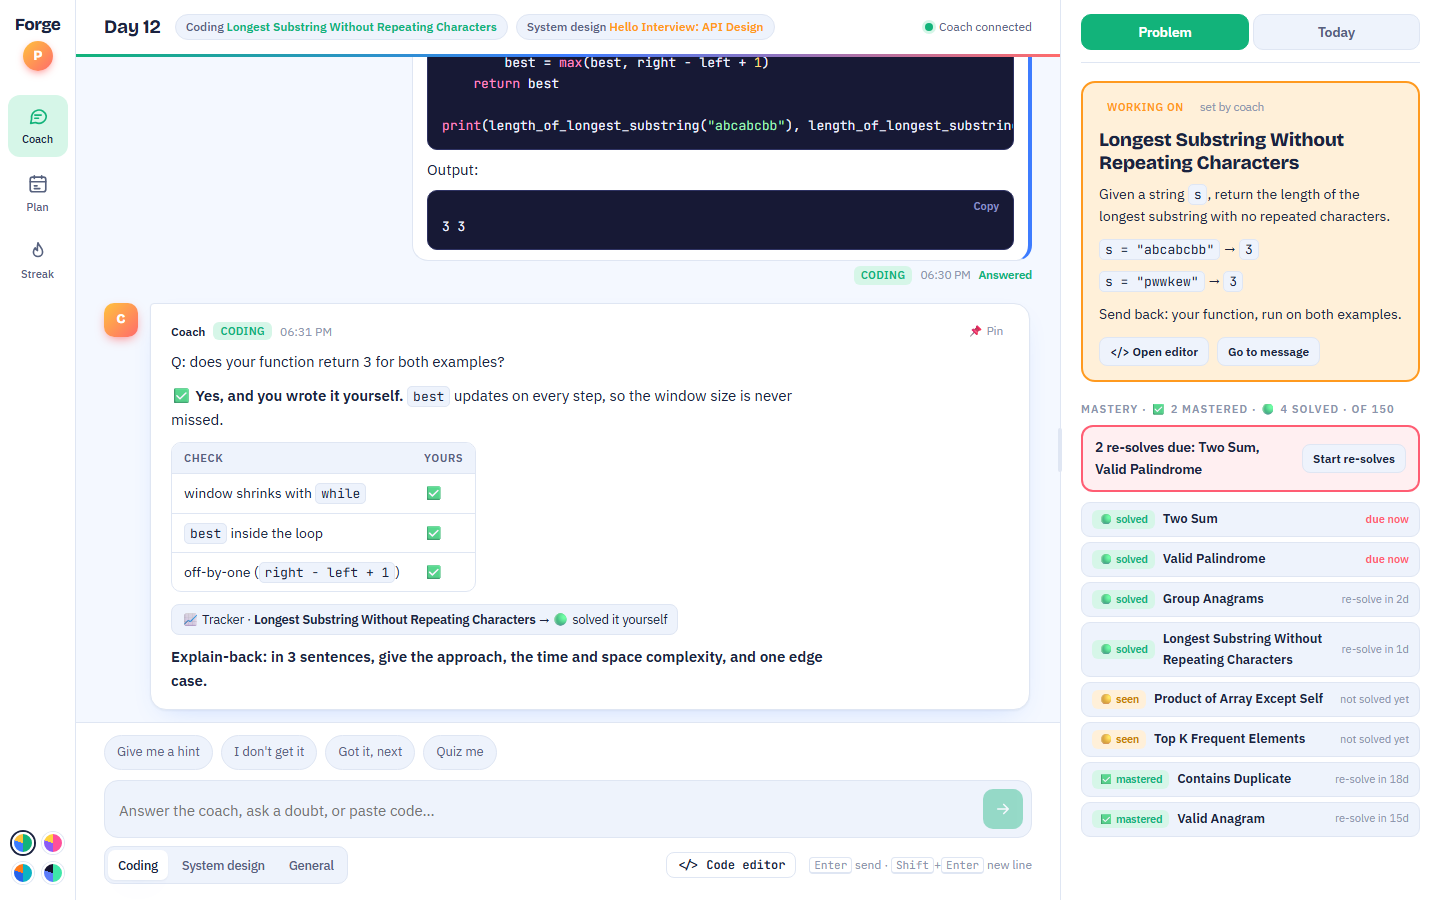
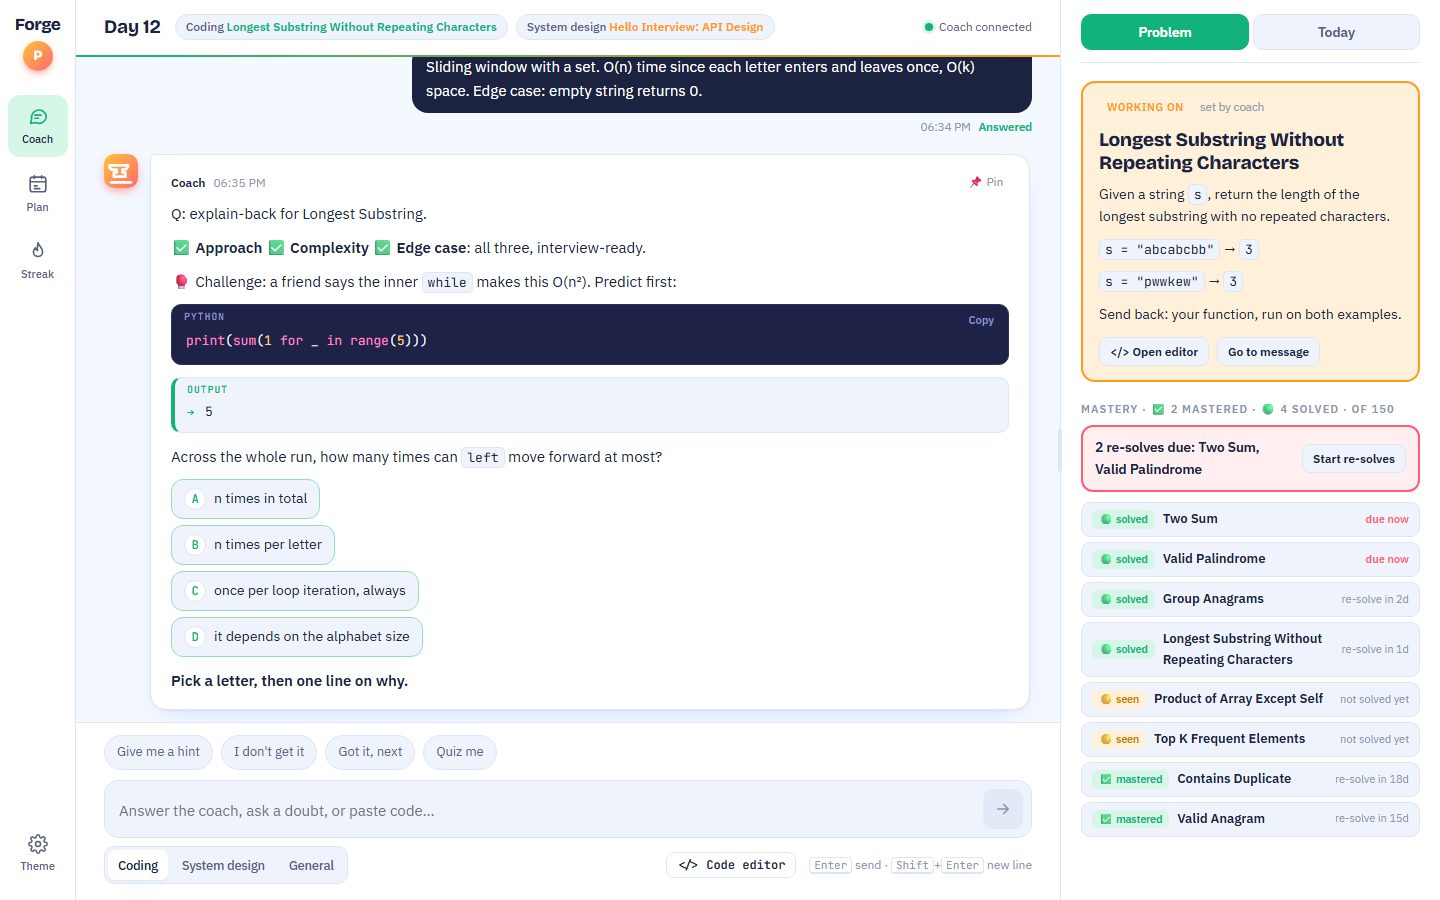
Second design review: tappable options, output box, calmer colours
- Code output is a light Output box with a → prompt, clearly different from the dark code box.
- A–D options are chips. Only the newest question's chips are live, and a tap fills 'B — ' so the learner adds a reason.
- Day types read Busy day / Normal / Free day.
- The palette moves into a Theme popover with labelled swatches; hidden on phones.
- Calmer colours: neutral learner bubble, a quiet two-colour top rule, an anvil coach avatar.
- The track tag appears only when the track changes. Disabled send is clearly off. No truncated placeholder.
- Fixed: the Theme button was treated as a view, which blanked the chat.
- Demo data gains a lettered question, and the README screenshots are refreshed.

diff --git a/index.html b/index.html
@@ -93,7 +93,12 @@ body.resizing{cursor:col-resize;user-select:none}
 .rail button.nav[aria-current="page"] svg{color:var(--accent)}
 .rail .badge{position:absolute;top:4px;right:8px;min-width:18px;height:18px;border-radius:9px;background:var(--pop);color:#fff;font:600 11px/18px var(--mono);text-align:center;padding:0 4px}
 .rail .spacer{flex:1}
-.swatches{display:grid;grid-template-columns:repeat(2,22px);gap:8px}
+.swatches{display:grid;grid-template-columns:repeat(4,28px);gap:10px}
+.swatches button{width:28px!important;height:28px!important}
+.settings-pop{position:fixed;left:84px;bottom:16px;z-index:40;background:var(--panel);border:1px solid var(--line);border-radius:14px;box-shadow:var(--shadow);padding:12px 14px}
+.settings-pop .label{margin:0 0 8px}
+.pal-names{display:grid;grid-template-columns:repeat(4,28px);gap:10px;margin-top:6px;font-size:9.5px;color:var(--muted);text-align:center}
+.settings-btn svg{width:20px!important;height:20px!important}
 .swatches button{appearance:none;width:22px;height:22px;border-radius:50%;cursor:pointer;border:2px solid var(--panel);background:conic-gradient(var(--a) 0 50%,var(--b) 50% 80%,var(--c) 80%);box-shadow:0 0 0 1px var(--line)}
 .swatches button[aria-pressed="true"]{box-shadow:0 0 0 2px var(--ink)}
 #confetti{position:fixed;inset:0;pointer-events:none;z-index:50}
@@ -101,7 +106,7 @@ body.resizing{cursor:col-resize;user-select:none}
 /* center */
 .center{min-width:0;min-height:0;display:flex;flex-direction:column;height:100%;overflow:hidden}
 code,pre,kbd,.mono{font-variant-ligatures:none!important;font-feature-settings:"liga" 0,"calt" 0!important}
-.topbar{flex:none;display:flex;align-items:center;gap:14px;padding:14px 28px 17px;background:linear-gradient(90deg,var(--accent),var(--me) 50%,var(--sun-b)) bottom/100% 3px no-repeat,var(--panel)}
+.topbar{flex:none;display:flex;align-items:center;gap:14px;padding:14px 28px 17px;background:linear-gradient(90deg,var(--accent),var(--ember)) bottom/100% 2px no-repeat,var(--panel)}
 .topbar h1{font:700 19px/1.2 var(--display);margin:0;letter-spacing:-.01em;white-space:nowrap}
 .chips{display:flex;gap:8px;flex-wrap:wrap;min-width:0}
 .chip{font:500 12px/1 var(--body);padding:6px 10px;border-radius:99px;background:var(--raise);border:1px solid var(--line);color:var(--muted);white-space:nowrap}
@@ -126,7 +131,7 @@ code,pre,kbd,.mono{font-variant-ligatures:none!important;font-feature-settings:"
 .tag.code{background:var(--accent-soft);color:var(--accent)} .tag.sd{background:var(--ember-soft);color:var(--ember)} .tag.general{background:var(--raise);color:var(--muted)}
 .me-row{justify-content:flex-end}
 .me-wrap{max-width:min(620px,85%);display:flex;flex-direction:column;align-items:flex-end;gap:5px}
-.me-bubble{background:var(--me);color:var(--me-ink);padding:10px 14px;border-radius:16px 4px 16px 16px;white-space:pre-wrap;overflow-wrap:anywhere;font-size:15px}
+.me-bubble{background:var(--ink);color:var(--panel);padding:10px 14px;border-radius:16px 4px 16px 16px;white-space:pre-wrap;overflow-wrap:anywhere;font-size:15px}
 .me-bubble pre{white-space:pre;background:rgba(0,0,0,.25);color:inherit;padding:8px 10px;border-radius:8px;overflow-x:auto;margin:6px 0 0;font:13px/1.5 var(--mono)}
 .me-bubble.has-code{background:var(--panel);color:var(--ink);border:1px solid var(--line);border-right:4px solid var(--me);white-space:normal;width:min(640px,100%)}
 .me-bubble.has-code .codebox{margin:8px 0}
@@ -145,6 +150,11 @@ code,pre,kbd,.mono{font-variant-ligatures:none!important;font-feature-settings:"
 .md hr{border:0;border-top:1px dashed var(--line);margin:16px 0}
 .md code{font:13px var(--mono);background:var(--raise);border:1px solid var(--line);padding:1px 5px;border-radius:5px}
 .md blockquote{margin:0 0 12px;padding:10px 14px;border-left:3px solid var(--accent);background:var(--raise);border-radius:0 10px 10px 0}
+.outbox{position:relative;margin:0 0 12px;border-radius:10px;background:var(--raise);border:1px solid var(--line);border-left:4px solid var(--accent)}
+.outbox .out-label{position:absolute;top:0;left:12px;font:700 10px/24px var(--mono);letter-spacing:.08em;text-transform:uppercase;color:var(--accent)}
+.outbox pre{margin:0;padding:24px 14px 10px 30px;overflow-x:auto;font:13px/1.6 var(--mono);color:var(--ink)}
+.outbox pre::before{content:"→";position:absolute;left:12px;top:24px;color:var(--accent);font:700 13px/1.6 var(--mono)}
+.outbox code{background:none;border:0;padding:0;font:inherit;color:inherit}
 .codebox{position:relative;margin:0 0 12px;border-radius:10px;background:var(--code-bg);border:1px solid var(--code-line);overflow:hidden}
 .codebox .lang{position:absolute;top:0;left:12px;font:600 10px/24px var(--mono);letter-spacing:.08em;text-transform:uppercase;color:var(--hl-c)}
 .codebox pre{margin:0;padding:26px 14px 12px;overflow-x:auto;color:var(--code-ink);font:13px/1.6 var(--mono)}
@@ -196,7 +206,7 @@ code,pre,kbd,.mono{font-variant-ligatures:none!important;font-feature-settings:"
 .box:focus-within{border-color:var(--accent);box-shadow:0 0 0 3px var(--accent-soft)}
 .box textarea{flex:1;border:0;background:transparent;resize:none;color:var(--ink);font:15px/1.5 var(--body);max-height:240px;min-height:24px;padding:6px 0;outline:none}
 .send{appearance:none;border:0;background:var(--accent);color:var(--accent-ink);width:40px;height:40px;border-radius:10px;cursor:pointer;display:grid;place-items:center;flex:none}
-.send:disabled{opacity:.4;cursor:default}
+.send:disabled{background:var(--sunk);color:var(--faint);cursor:default}
 .send svg{width:18px;height:18px}
 .below{display:flex;justify-content:space-between;align-items:center;margin-top:8px;gap:10px;flex-wrap:wrap}
 .track{display:flex;gap:4px;background:var(--raise);border:1px solid var(--line);border-radius:10px;padding:3px}
@@ -336,6 +346,13 @@ code,pre,kbd,.mono{font-variant-ligatures:none!important;font-feature-settings:"
 .mchip.mastered{background:var(--good-soft);color:var(--good)}
 .mdue{font-size:11px;color:var(--faint);white-space:nowrap}
 .mdue.now{color:var(--pop);font-weight:700}
+.opt-list{display:flex;flex-direction:column;gap:6px;margin:4px 0 12px;align-items:flex-start}
+.opt{appearance:none;text-align:left;border:1px solid var(--line);background:var(--raise);color:var(--ink);border-radius:12px;padding:8px 12px;font:14px/1.4 var(--body);max-width:100%}
+.opt b{display:inline-grid;place-items:center;width:22px;height:22px;margin-right:8px;border-radius:50%;background:var(--panel);border:1px solid var(--line);font:700 12px var(--mono);color:var(--accent)}
+.opt.live{cursor:pointer;border-color:var(--accent-line)}
+.opt.live:hover{background:var(--accent-soft)}
+.opt.live:hover b{background:var(--accent);color:var(--accent-ink);border-color:var(--accent)}
+.opt.picked{background:var(--accent-soft);border-color:var(--accent)}
 .statuschip{display:inline-block;line-height:1.5;margin:0 0 10px;padding:5px 10px;border-radius:8px;background:var(--raise);border:1px solid var(--line);font-size:12.5px}
 .prob-hist{display:flex;flex-direction:column;gap:6px}
 .prob-hist button{appearance:none;text-align:left;border:1px solid var(--line);background:var(--raise);border-radius:10px;padding:8px 12px;cursor:pointer;color:var(--ink);font-size:13px;display:flex;justify-content:space-between;gap:8px}
@@ -422,7 +439,7 @@ table.plan tr.past td{color:var(--faint)}
 @media (max-width:720px){
   .app{grid-template-columns:1fr;grid-template-rows:minmax(0,1fr) auto}
   .rail{grid-row:2;flex-direction:row;justify-content:space-around;padding:6px 8px calc(6px + env(safe-area-inset-bottom,0px));border-right:0;border-top:1px solid var(--line)}
-  .logo,.rail .spacer{display:none}
+  .logo,.rail .spacer,.settings-btn,.settings-pop{display:none!important}
   .topbar{padding:12px 16px;flex-wrap:wrap}
   .chips{display:none}
   .thread{padding:18px 16px 8px}
@@ -462,12 +479,17 @@ table.plan tr.past td{color:var(--faint)}
       Streak
     </button>
     <div class="spacer"></div>
+    <button type="button" class="nav settings-btn" id="settingsBtn" aria-haspopup="true" aria-expanded="false">
+      <svg viewBox="0 0 24 24" fill="none" stroke="currentColor" stroke-width="1.8" stroke-linecap="round" stroke-linejoin="round"><circle cx="12" cy="12" r="3"/><path d="M19.4 15a1.7 1.7 0 0 0 .3 1.8l.1.1a2 2 0 1 1-2.8 2.8l-.1-.1a1.7 1.7 0 0 0-1.8-.3 1.7 1.7 0 0 0-1 1.5V21a2 2 0 1 1-4 0v-.1a1.7 1.7 0 0 0-1.1-1.5 1.7 1.7 0 0 0-1.8.3l-.1.1a2 2 0 1 1-2.8-2.8l.1-.1a1.7 1.7 0 0 0 .3-1.8 1.7 1.7 0 0 0-1.5-1H3a2 2 0 1 1 0-4h.1a1.7 1.7 0 0 0 1.5-1.1 1.7 1.7 0 0 0-.3-1.8l-.1-.1a2 2 0 1 1 2.8-2.8l.1.1a1.7 1.7 0 0 0 1.8.3H9a1.7 1.7 0 0 0 1-1.5V3a2 2 0 1 1 4 0v.1a1.7 1.7 0 0 0 1 1.5 1.7 1.7 0 0 0 1.8-.3l.1-.1a2 2 0 1 1 2.8 2.8l-.1.1a1.7 1.7 0 0 0-.3 1.8V9a1.7 1.7 0 0 0 1.5 1H21a2 2 0 1 1 0 4h-.1a1.7 1.7 0 0 0-1.5 1Z"/></svg>
+      Theme
+    </button>
+    <div class="settings-pop" id="settingsPop" hidden><p class="label">Colour palette</p>
     <div class="swatches" role="group" aria-label="Colour palette">
       <button type="button" id="pal-sunny" data-pal="sunny" title="Sunny" aria-label="Sunny palette" style="--a:#12b37a;--b:#3d7cff;--c:#ffc23d"></button>
       <button type="button" id="pal-candy" data-pal="candy" title="Candy" aria-label="Candy palette" style="--a:#ff4f9a;--b:#8b5cf6;--c:#ffd23f"></button>
       <button type="button" id="pal-ocean" data-pal="ocean" title="Ocean" aria-label="Ocean palette" style="--a:#0bb3c4;--b:#2563eb;--c:#ff7a1a"></button>
       <button type="button" id="pal-night" data-pal="night" title="Night" aria-label="Night palette" style="--a:#3ee6a8;--b:#5b7cfa;--c:#15132e"></button>
-    </div>
+    </div><div class="pal-names"><span>Sunny</span><span>Candy</span><span>Ocean</span><span>Night</span></div></div>
   </nav>
   <canvas id="confetti" aria-hidden="true"></canvas>
 
@@ -662,9 +684,9 @@ table.plan tr.past td{color:var(--faint)}
     <div>
       <p class="label">What kind of day?</p>
       <div class="seg" role="group" aria-label="Day type">
-        <button type="button" id="dt-heavy" data-type="heavy" aria-pressed="false"><b>1 h</b>Heavy work</button>
+        <button type="button" id="dt-heavy" data-type="heavy" aria-pressed="false"><b>1 h</b>Busy day</button>
         <button type="button" id="dt-normal" data-type="normal" aria-pressed="true"><b>2 h</b>Normal</button>
-        <button type="button" id="dt-light" data-type="light" aria-pressed="false"><b>3 h+</b>Light</button>
+        <button type="button" id="dt-light" data-type="light" aria-pressed="false"><b>3 h+</b>Free day</button>
       </div>
       <p class="split" id="splitText"></p>
     </div>
@@ -684,7 +706,7 @@ table.plan tr.past td{color:var(--faint)}
           <span class="k sd">System design</span>
           <span class="t" id="tSD">—</span>
           <span class="s" id="tSDHow">—</span>
-          <input class="note" id="noteSD" placeholder="One line you'd say in an interview" aria-label="System design note">
+          <input class="note" id="noteSD" placeholder="Your interview one-liner" aria-label="System design note">
         </label>
       </div>
     </div>
@@ -768,6 +790,8 @@ table.plan tr.past td{color:var(--faint)}
   let pal = "sunny";
   try { pal = localStorage.getItem("forge27-palette") || "sunny"; } catch (_) {}
   setPal(pal);
+  $("settingsBtn").onclick = e => { e.stopPropagation(); const pop = $("settingsPop"); pop.hidden = !pop.hidden; $("settingsBtn").setAttribute("aria-expanded", String(!pop.hidden)); };
+  document.addEventListener("click", e => { if (!$("settingsPop").hidden && !e.target.closest("#settingsPop")) { $("settingsPop").hidden = true; $("settingsBtn").setAttribute("aria-expanded", "false"); } });
   document.querySelectorAll(".swatches button").forEach(b => b.onclick = () => { setPal(b.dataset.pal); try { localStorage.setItem("forge27-palette", b.dataset.pal); } catch (_) {} });
 
   // confetti when both tracks are done
@@ -845,7 +869,7 @@ table.plan tr.past td{color:var(--faint)}
     if (v === "coach") stick(true);
     try { history.replaceState(null, "", "#" + v); } catch (_) {}
   }
-  document.querySelectorAll(".rail .nav").forEach(b => b.onclick = () => show(b.dataset.view));
+  document.querySelectorAll(".rail .nav[data-view]").forEach(b => b.onclick = () => show(b.dataset.view));
   $("todayToggle").onclick = () => $("side").classList.toggle("show");
   if (views.includes(location.hash.slice(1))) show(location.hash.slice(1));
 
@@ -868,7 +892,8 @@ table.plan tr.past td{color:var(--faint)}
     }
     let html = esc(code);
     if ((lang === "python" || lang === "py") && window.hljs) { try { html = hljs.highlight(code, { language: "python" }).value; } catch (_) {} }
-    return '<div class="codebox">' + (lang && lang !== "text" ? '<span class="lang">' + esc(lang) + "</span>" : "") + '<button class="copy" type="button">Copy</button><pre><code>' + html + "</code></pre></div>";
+    if (lang === "text" || lang === "output") return '<div class="outbox"><span class="out-label">Output</span><pre><code>' + html + "</code></pre></div>";
+    return '<div class="codebox">' + (lang ? '<span class="lang">' + esc(lang) + "</span>" : "") + '<button class="copy" type="button">Copy</button><pre><code>' + html + "</code></pre></div>";
   }
   const lineBreaks = t => t.split("\n").map(x => x.trim()).filter(Boolean).join("\n\n"); // keep task lines separate
   function md(src) {
@@ -1059,27 +1084,29 @@ table.plan tr.past td{color:var(--faint)}
   function renderThread() {
     const answered = new Set(messages.filter(m => m.replyTo).map(m => m.replyTo));
     const isWaiting = m => isMe(m) && m.status === "waiting" && !answered.has(m.id);
-    let html = "", lastDay = null;
+    let html = "", lastDay = null, lastTrack = null;
     if (!messages.length) html = '<div class="sep">No messages yet</div>';
     messages.forEach(m => {
       const d = m.day || 1;
       if (d !== lastDay) { lastDay = d; const dt = new Date(START.getTime() + (d - 1) * DAY); html += '<div class="sep">Day ' + d + " · " + dt.toLocaleDateString(undefined, { weekday: "short", day: "numeric", month: "short" }) + "</div>"; }
-      const tg = '<span class="tag ' + (m.track || "general") + '">' + trackName(m.track) + "</span>";
+      const trk = m.track || "general", tg = trk !== lastTrack ? '<span class="tag ' + trk + '">' + trackName(trk) + "</span>" : "";
+      lastTrack = trk;
       if (isMe(m)) {
         const w = isWaiting(m);
         html += '<div class="msg me-row"><div class="me-wrap"><div class="me-bubble' + (/```/.test(m.text || "") ? " has-code" : "") + '">' + plain(m.text) + '</div><div class="me-meta">' + tg + "<span>" + timeStr(m.createdAt) + '</span><span class="state ' + (w ? "wait" : "done") + '">' + (w ? "Sent" : "Answered") + "</span></div></div></div>";
       } else {
         const pinned = isPinned(m.id);
-        html += '<div class="msg" id="m-' + m.id + '"><div class="avatar" aria-hidden="true">C</div><div class="coach-card' + (pinned ? " is-pinned" : "") + '"><div class="meta"><b>Coach</b>' + tg + "<span>" + timeStr(m.createdAt) + '</span><button type="button" class="pinbtn" data-pin="' + m.id + '">' + (pinned ? "📌 Pinned" : "📌 Pin") + '</button></div><div class="md">' + md(m.text) + "</div></div></div>";
+        html += '<div class="msg" id="m-' + m.id + '"><div class="avatar" aria-hidden="true"><svg viewBox="0 0 24 24" fill="none" stroke="currentColor" stroke-width="2" stroke-linecap="round" stroke-linejoin="round"><path d="M4 8h13a3 3 0 0 1-3 3h-1v2h2v3H7v-3h2v-2H6a2 2 0 0 1-2-2Z"/><path d="M5 20h14"/></svg></div><div class="coach-card' + (pinned ? " is-pinned" : "") + '"><div class="meta"><b>Coach</b>' + tg + "<span>" + timeStr(m.createdAt) + '</span><button type="button" class="pinbtn" data-pin="' + m.id + '">' + (pinned ? "📌 Pinned" : "📌 Pin") + '</button></div><div class="md">' + md(m.text) + "</div></div></div>";
       }
     });
     const waiting = messages.filter(isWaiting);
     if (live.active && live.text) {
-      html += '<div class="msg"><div class="avatar" aria-hidden="true">C</div><div class="coach-card"><div class="meta"><b>Coach</b><span class="dots"><i></i><i></i><i></i></span><span>' + esc(live.status || "writing…") + '</span></div><div class="md">' + md(live.text) + "</div></div></div>";
+      html += '<div class="msg"><div class="avatar" aria-hidden="true"><svg viewBox="0 0 24 24" fill="none" stroke="currentColor" stroke-width="2" stroke-linecap="round" stroke-linejoin="round"><path d="M4 8h13a3 3 0 0 1-3 3h-1v2h2v3H7v-3h2v-2H6a2 2 0 0 1-2-2Z"/><path d="M5 20h14"/></svg></div><div class="coach-card"><div class="meta"><b>Coach</b><span class="dots"><i></i><i></i><i></i></span><span>' + esc(live.status || "writing…") + '</span></div><div class="md">' + md(live.text) + "</div></div></div>";
     } else if (waiting.length || live.active) {
-      html += '<div class="typing"><div class="avatar" aria-hidden="true">C</div><div class="coach-card"><span class="dots"><i></i><i></i><i></i></span>' + esc(live.status || "Coach is reading your answer…") + "</div></div>";
+      html += '<div class="typing"><div class="avatar" aria-hidden="true"><svg viewBox="0 0 24 24" fill="none" stroke="currentColor" stroke-width="2" stroke-linecap="round" stroke-linejoin="round"><path d="M4 8h13a3 3 0 0 1-3 3h-1v2h2v3H7v-3h2v-2H6a2 2 0 0 1-2-2Z"/><path d="M5 20h14"/></svg></div><div class="coach-card"><span class="dots"><i></i><i></i><i></i></span>' + esc(live.status || "Coach is reading your answer…") + "</div></div>";
     }
     thread.innerHTML = html;
+    optionChips();
     thread.querySelectorAll(".pinbtn").forEach(b => b.onclick = () => togglePin(b.dataset.pin));
     renderPin();
     thread.querySelectorAll(".copy").forEach(b => b.onclick = () => {
@@ -1091,6 +1118,47 @@ table.plan tr.past td{color:var(--faint)}
     $("sAsked").textContent = messages.filter(m => isMe(m)).length;
     stick(false);
   }
+
+
+  // A–D options in a coach message become chips. Only the newest coach message's chips are live:
+  // a tap fills "B — " into the box so the learner adds their one-line reason (answer first, then why).
+  const OPT = /^\s*(?:\*\*)?\(?([A-D])(?:\)|\.|:)(?:\*\*)?\s+(.+)$/;
+  function optionChips() {
+    const cards = [...thread.querySelectorAll(".msg:not(.me-row) .md")];
+    const newestCoach = cards[cards.length - 1];
+    cards.forEach(md => {
+      const live = md === newestCoach && !live_pending();
+      // options written as list items
+      md.querySelectorAll("ul, ol").forEach(list => {
+        const items = [...list.children].map(li => [li, OPT.exec(li.textContent)]);
+        if (items.length < 2 || items.some(([, m]) => !m)) return;
+        list.replaceWith(chipList(items.map(([li, m]) => [m[1], li.innerHTML.replace(/^\s*(?:<b>)?\(?[A-D](?:\)|\.|:)(?:<\/b>)?\s*/, "")]), live));
+      });
+      // options written on one line: "A) x B) y C) z"
+      md.querySelectorAll("p").forEach(pp => {
+        const t = pp.textContent;
+        if (!/^\s*\(?A\)/.test(t) || !/\bB\)/.test(t)) return;
+        const parts = t.split(/\s*(?=\(?\b[A-D]\)\s)/).map(x => OPT.exec(x)).filter(Boolean);
+        if (parts.length >= 2) pp.replaceWith(chipList(parts.map(m => [m[1], esc(m[2])]), live));
+      });
+    });
+  }
+  function chipList(opts, live) {
+    const box = document.createElement("div"); box.className = "opt-list";
+    opts.forEach(([letter, html]) => {
+      const b = document.createElement("button");
+      b.type = "button"; b.className = "opt" + (live ? " live" : ""); b.disabled = !live;
+      b.innerHTML = "<b>" + letter + "</b>" + html;
+      if (live) b.onclick = () => {
+        box.querySelectorAll(".opt").forEach(x => x.classList.toggle("picked", x === b));
+        ask.value = letter + " — "; ask.dispatchEvent(new Event("input")); ask.focus();
+        ask.setSelectionRange(ask.value.length, ask.value.length);
+      };
+      box.appendChild(b);
+    });
+    return box;
+  }
+  const live_pending = () => messages.length && isMe(messages[messages.length - 1]);
 
   // composer
   const ask = $("ask"), sendBtn = $("sendBtn");

diff --git a/scripts/demo_data.py b/scripts/demo_data.py
@@ -42,6 +42,8 @@ msgs = [
     ("coach", "code", 1, 5, "Q: which letter left the window at `right = 3`?\n\n✅ **`a`, and your reason is exactly right.** The new `a` was already in `seen`, so the `while` loop removed from the left until it wasn't.\n\nNow you do one alone.\n\n```task\n" + TASK + "\n```\n\n**Write `length_of_longest_substring(s)` in the code editor and send it with the output.**"),
     ("learner", "code", 0, 0, "```python\ndef length_of_longest_substring(s):\n    left, seen, best = 0, set(), 0\n    for right, ch in enumerate(s):\n        while ch in seen:\n            seen.remove(s[left])\n            left += 1\n        seen.add(ch)\n        best = max(best, right - left + 1)\n    return best\n\nprint(length_of_longest_substring(\"abcabcbb\"), length_of_longest_substring(\"pwwkew\"))\n```\n\nOutput:\n```text\n3 3\n```"),
     ("coach", "code", 0, 1, "Q: does your function return 3 for both examples?\n\n✅ **Yes, and you wrote it yourself.** `best` updates on every step, so the window size is never missed.\n\n| check | yours |\n|---|---|\n| window shrinks with `while` | ✅ |\n| `best` inside the loop | ✅ |\n| off-by-one (`right - left + 1`) | ✅ |\n\n```status\nproblem: Longest Substring Without Repeating Characters\nresult: solved\n```\n\n**Explain-back: in 3 sentences, give the approach, the time and space complexity, and one edge case.**"),
+    ("learner", "code", 0, 4, "Sliding window with a set. O(n) time since each letter enters and leaves once, O(k) space. Edge case: empty string returns 0."),
+    ("coach", "code", 0, 5, "Q: explain-back for Longest Substring.\n\n✅ **Approach** ✅ **Complexity** ✅ **Edge case**: all three, interview-ready.\n\n🥊 Challenge: a friend says the inner `while` makes this O(n²). Predict first:\n\n```python\nprint(sum(1 for _ in range(5)))\n```\n\n```text\n5\n```\n\nAcross the whole run, how many times can `left` move forward at most?\n\n- A) n times in total\n- B) n times per letter\n- C) once per loop iteration, always\n- D) it depends on the alphabet size\n\n**Pick a letter, then one line on why.**"),
 ]
 messages = []
 for i, (role, track, days_ago, minute, text) in enumerate(msgs):
